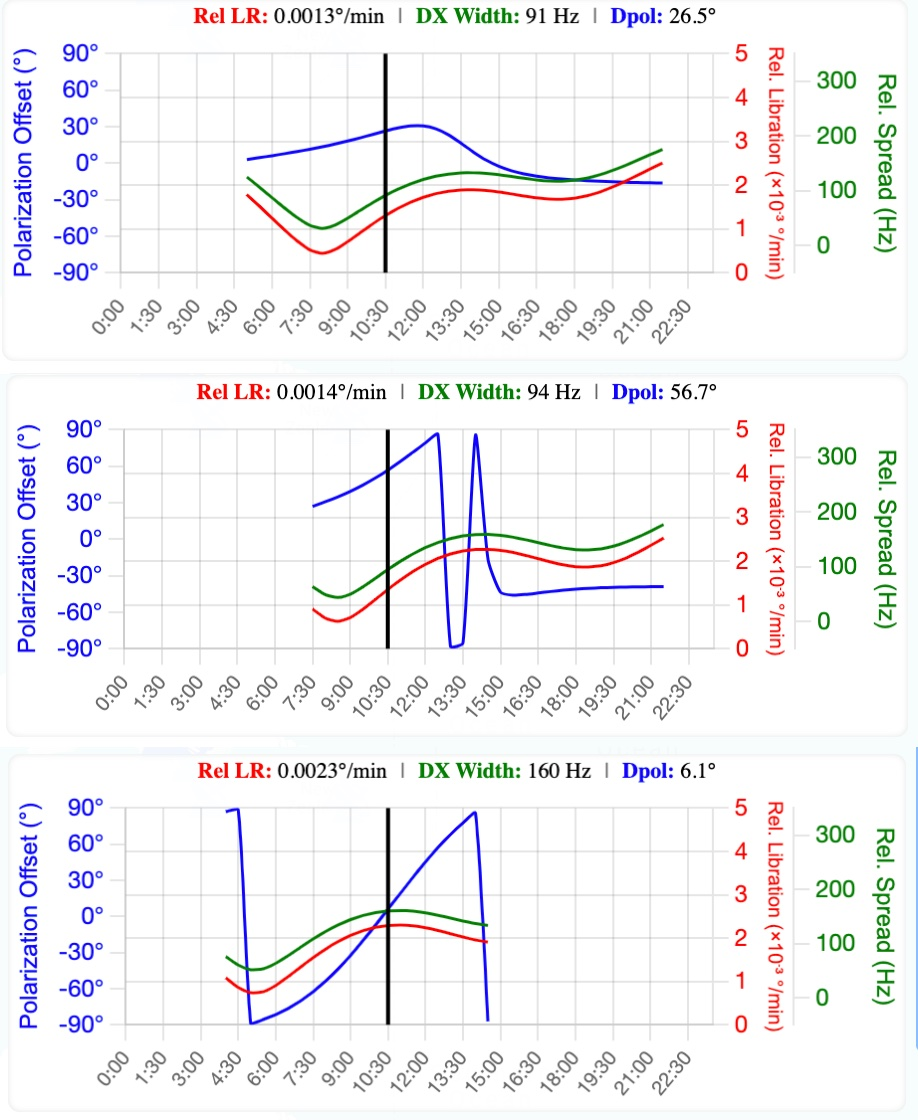
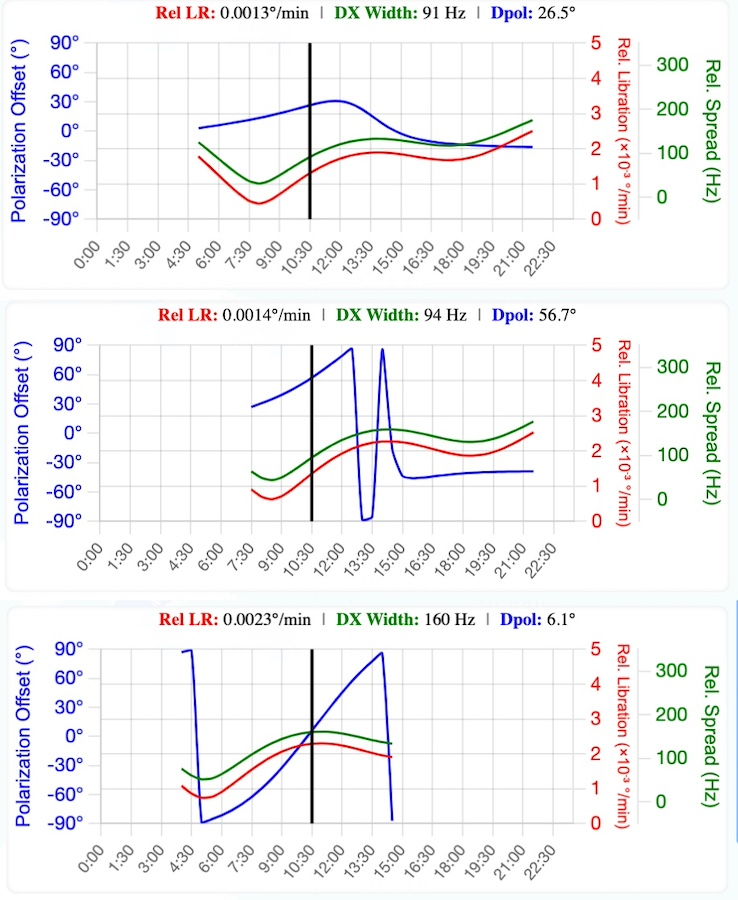
v0

diff --git a/eme-observer/user-guide.html b/eme-observer/user-guide.html
@@ -358,9 +358,9 @@
       <strong>EME Observer</strong> is a web application that provides an interactive map of 10 GHz Earth-Moon-Earth (EME) stations and enables seamless, single-click sked planning. It delivers high-resolution lunar ephemeris data and displays key signal path characteristics, such as libration rate, Doppler spread, and polarization offset, along with station profiles and statistical summaries.
       </p>
       <figure style="margin-top: 10px; text-align: center;">
-        <a href="images/eme-observer-collage_s.png" target="_blank" rel="noopener">
+        <a href="images/eme-observer-collage_s.webp" target="_blank" rel="noopener">
           <img
-            src="images/eme-observer-collage_s.png"
+            src="images/eme-observer-collage_s.webp"
             alt="EME Observer collage showcasing its different modes"
             loading="lazy"
             width="800"

diff --git a/eme-observer/statistics.html b/eme-observer/statistics.html
@@ -368,7 +368,7 @@
               title: { display: true, text: xAxisTitle },
               ticks: {
                 font: {
-                  size: window.innerWidth < 768 ? 10 : 14 // ✅ smaller on mobile
+                  size: window.innerWidth < 768 ? 10 : 14
                 }
               }
             },
@@ -377,7 +377,7 @@
               beginAtZero: true,
               ticks: {
                 font: {
-                  size: window.innerWidth < 768 ? 10 : 14 // ✅ smaller on mobile
+                  size: window.innerWidth < 768 ? 10 : 14
                 }
               }
             }
